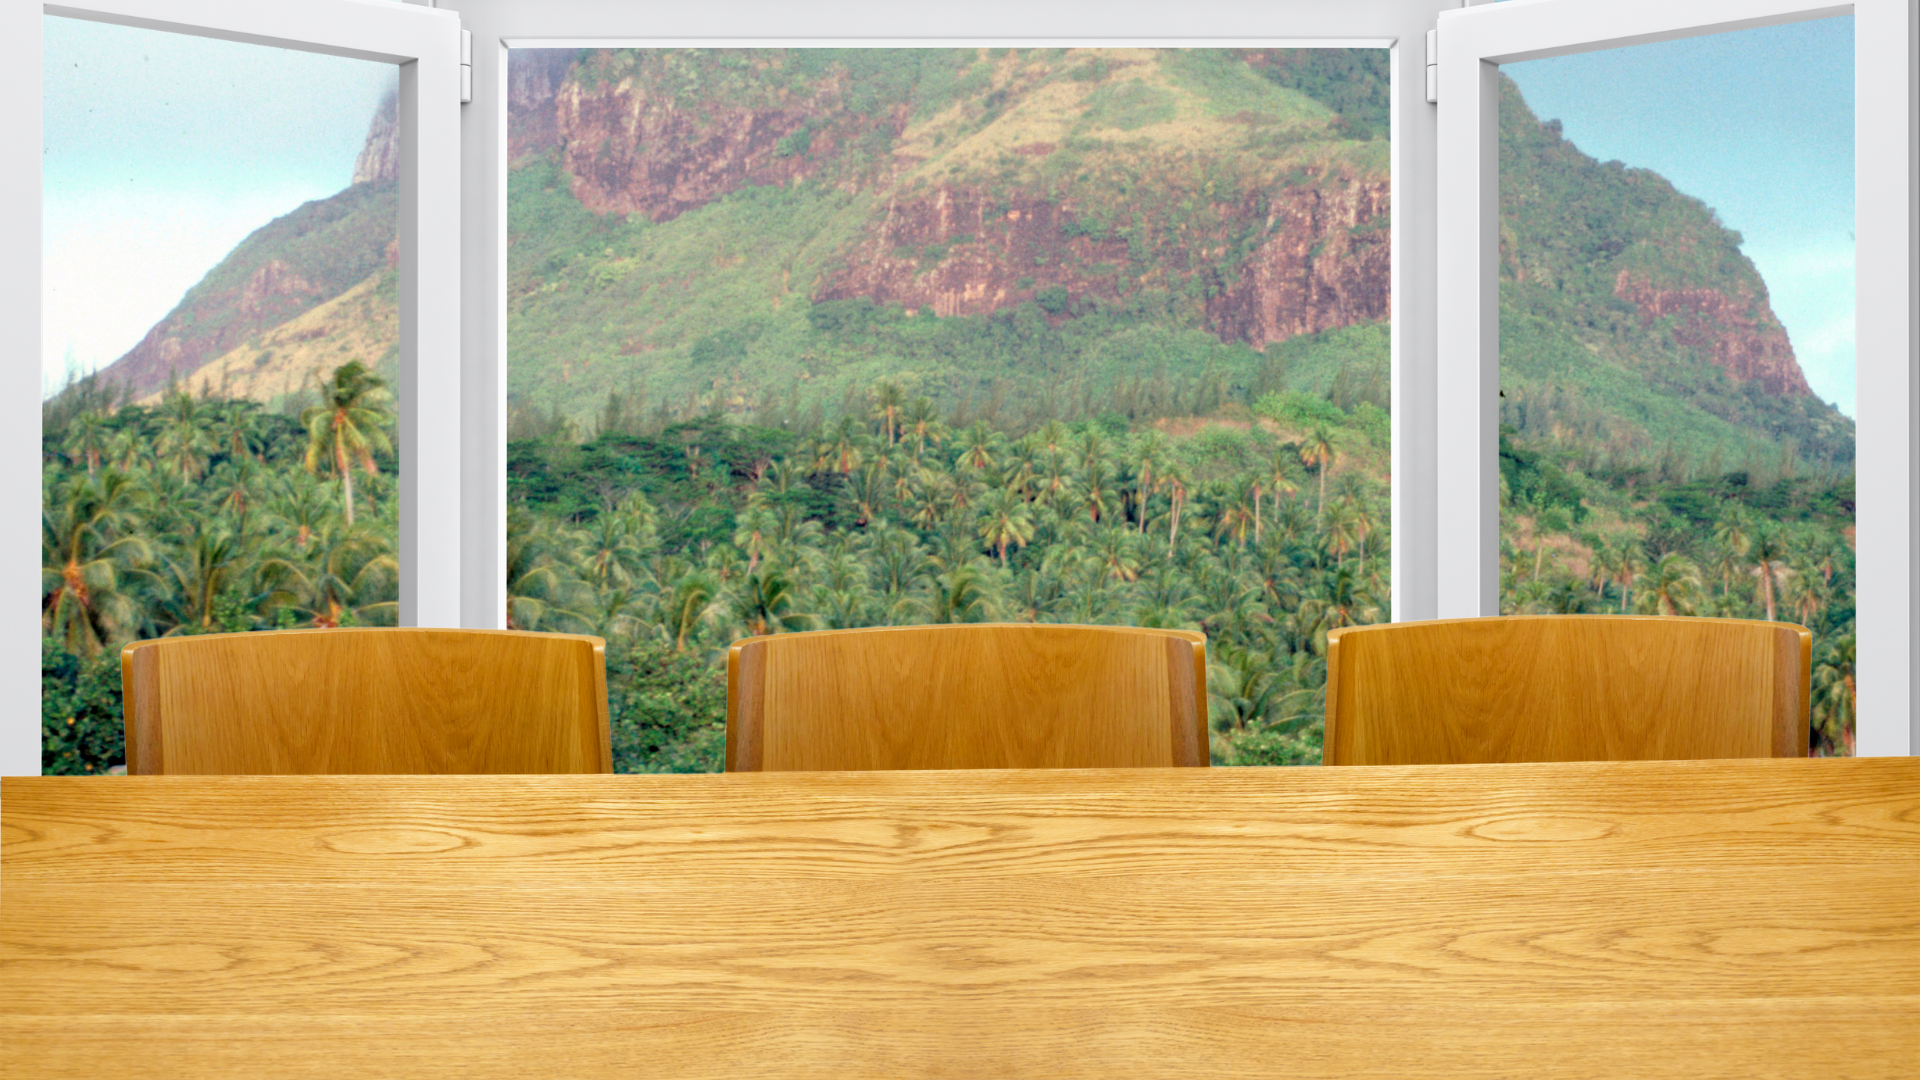
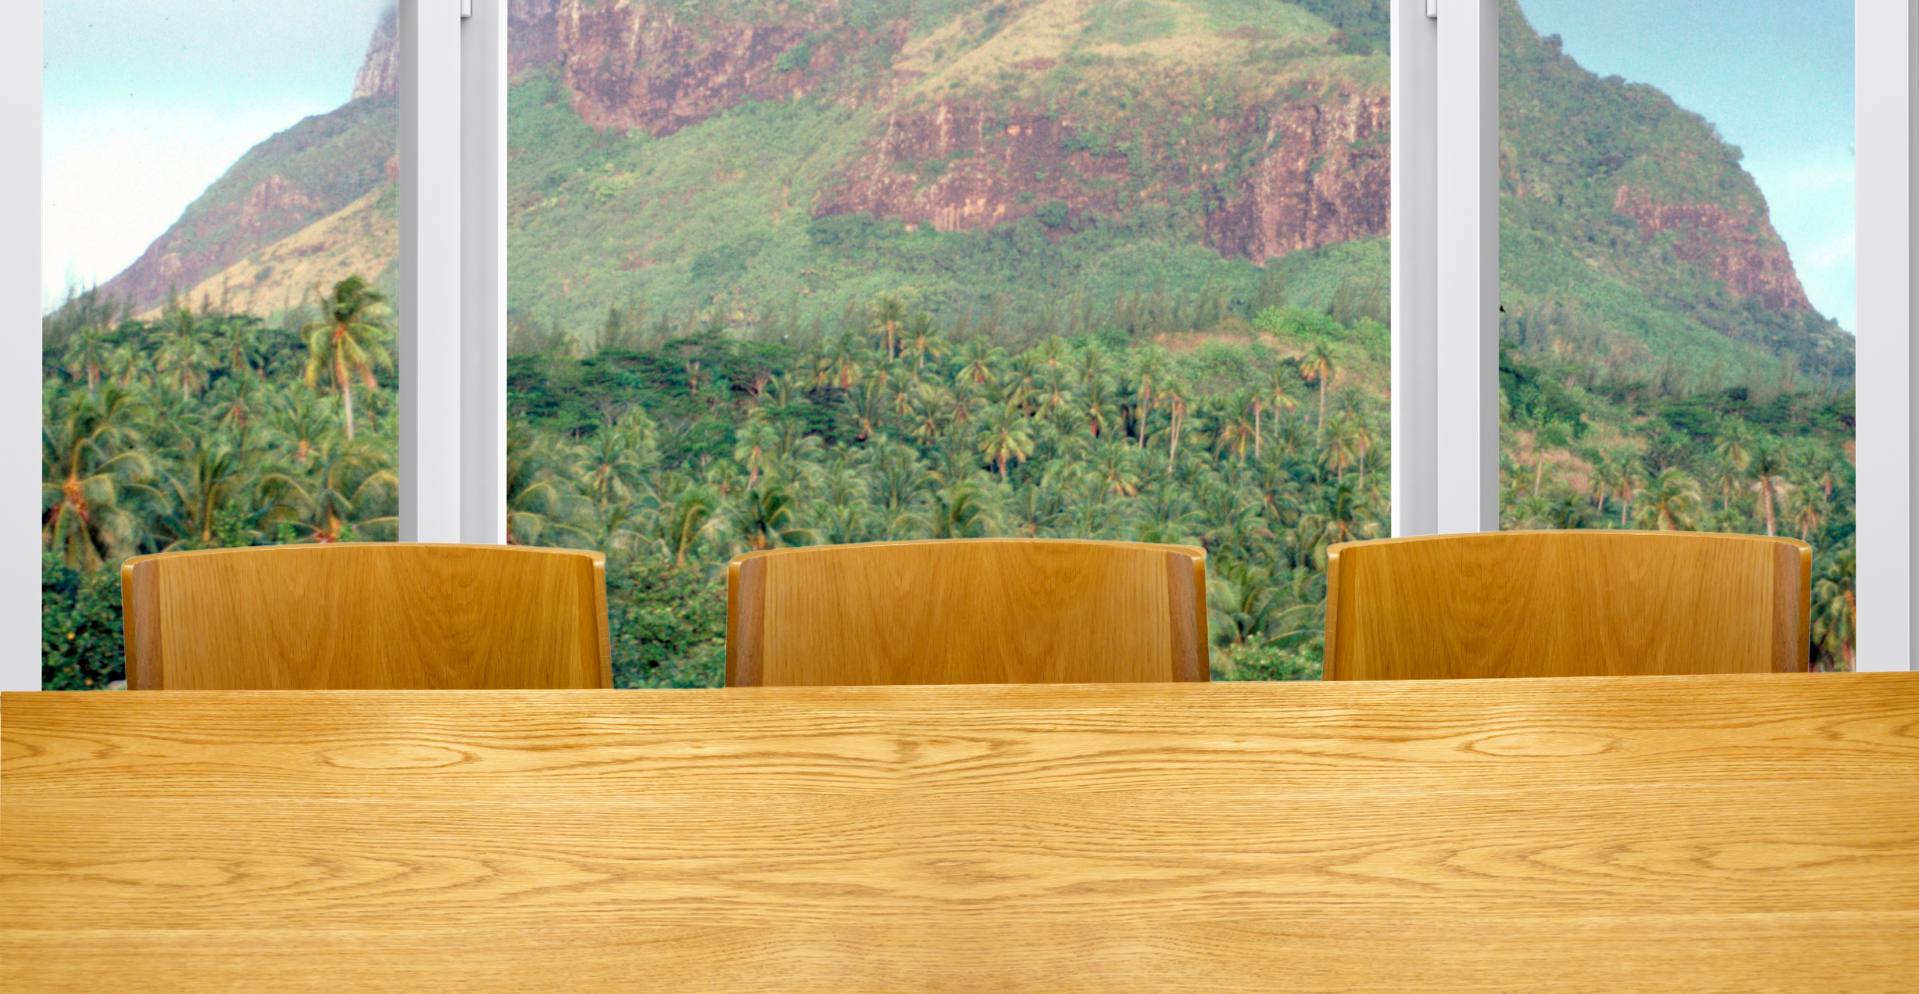
Sawsan 5/5 10.30AM

diff --git a/community.html b/community.html
@@ -17,7 +17,7 @@
     <body>
         <style>
             body {
-              background-image: url('images/communitybgrnd1.png');
+              background-image: url('images/communitybgrnd.png');
               background-repeat: no-repeat;
               background-size: cover;
             }
